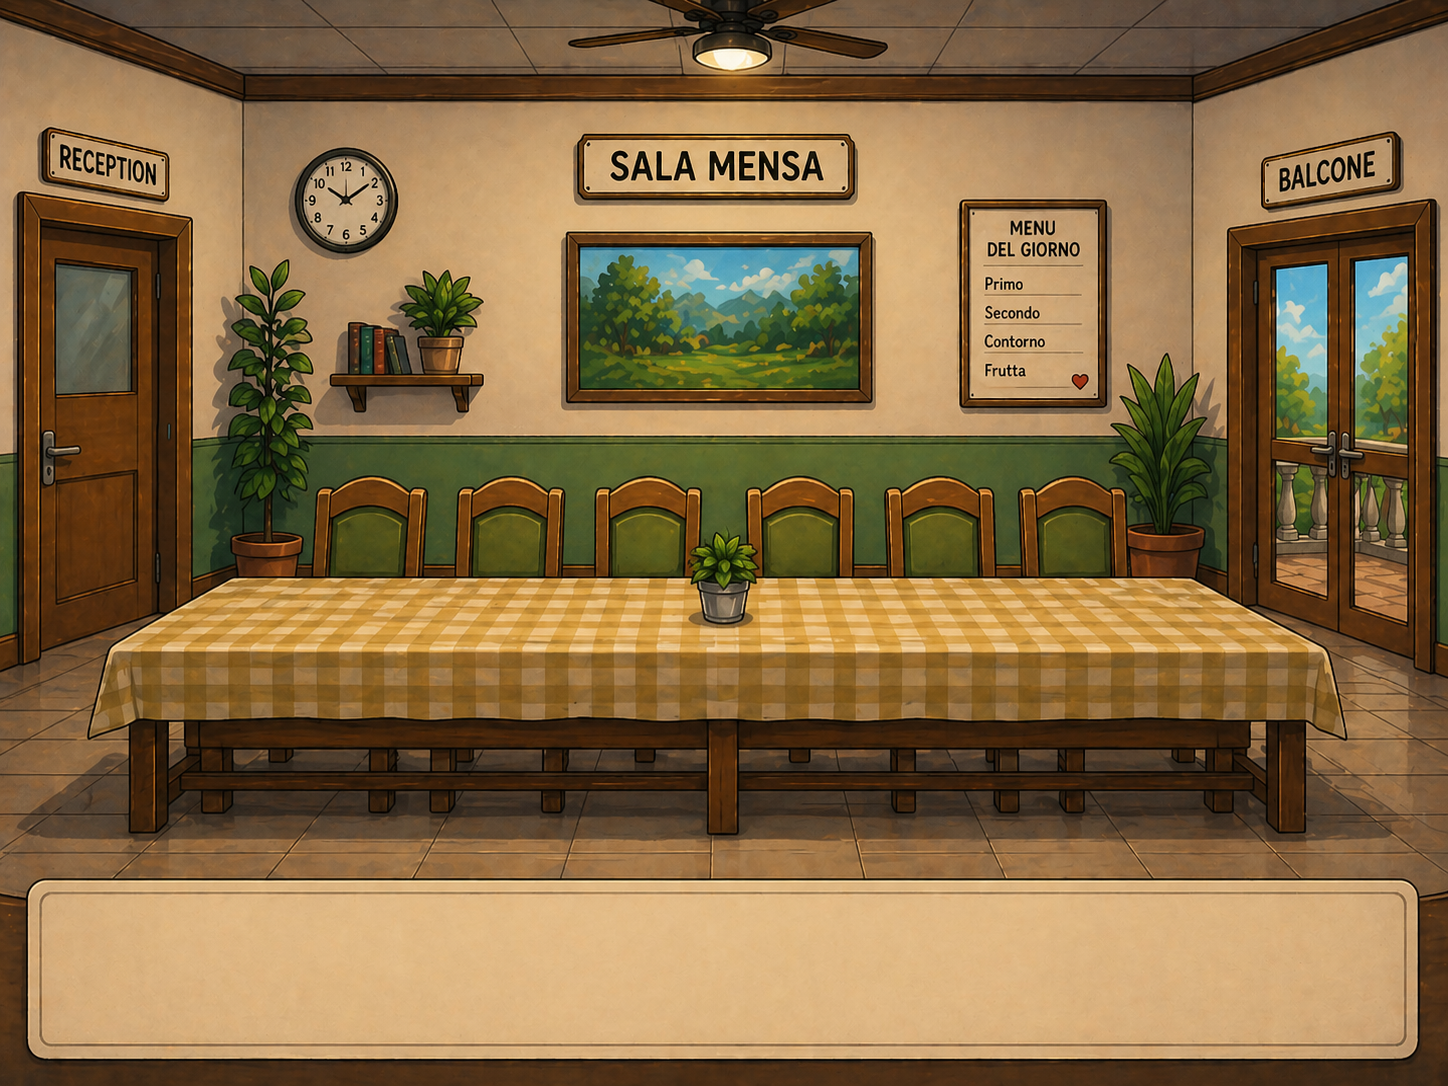
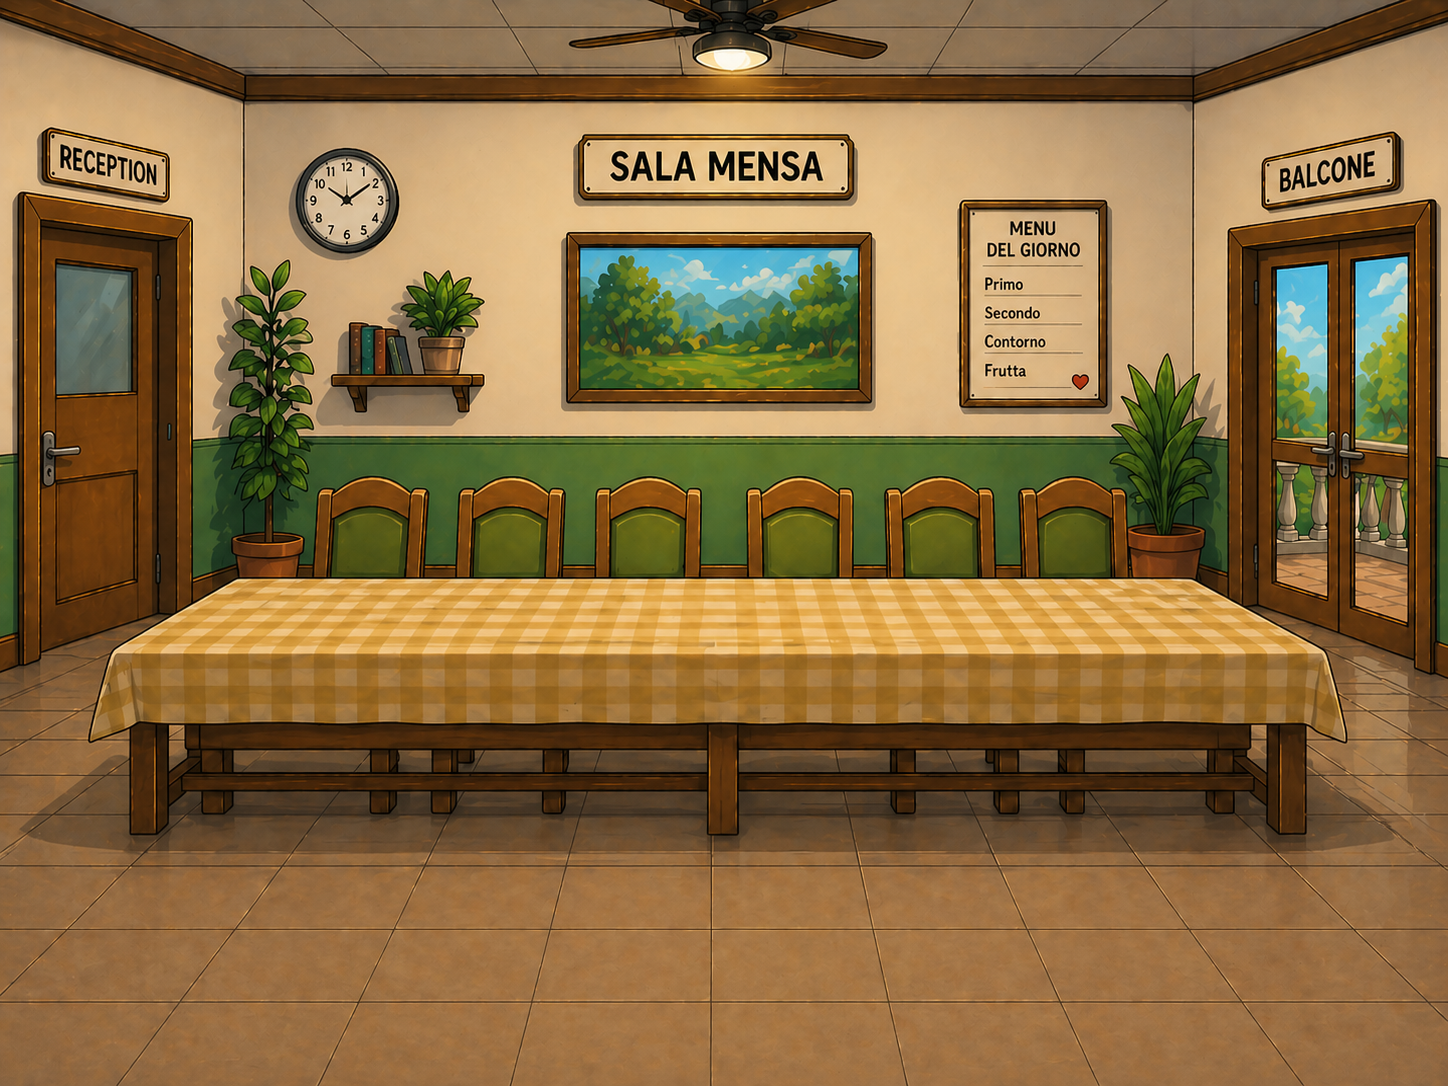
auto-save 30/04/2026  3:10:11,93

diff --git a/script.js b/script.js
@@ -6,7 +6,8 @@ const hotspots = document.querySelectorAll(".hotspot");
 const navButtons = document.querySelectorAll(".scene-nav-button");
 const toggleEditorButton = document.getElementById("toggle-editor");
 const togglePreviewButton = document.getElementById("toggle-preview");
-const placeGianniRandomButton = document.getElementById("place-gianni-random");
+const toggleTimeOfDayButton = document.getElementById("toggle-time-of-day");
+const randomizeDiningSeatsButton = document.getElementById("randomize-dining-seats");
 const copyLayoutButton = document.getElementById("copy-layout");
 const seatAnchorElements = document.querySelectorAll(".seat-anchor");
 const characters = document.querySelectorAll(".character");
@@ -32,6 +33,25 @@ const scenes = {
   "sala-mensa": {
     label: "Sala Mensa",
     message: "Sei nella sala mensa. Nell'aria c'e' ancora odore di caffe'."
+  }
+};
+
+const roomBackgrounds = {
+  reception: {
+    day: "assets/img/reception.png",
+    night: "assets/img/receptionnotte.png"
+  },
+  infermeria: {
+    day: "assets/img/infermieria.png",
+    night: "assets/img/infermierianotte.png"
+  },
+  camere: {
+    day: "assets/img/stanzalettogiorno.png",
+    night: "assets/img/stanzalettonotte.png"
+  },
+  "sala-mensa": {
+    day: "assets/img/sala mensa.png",
+    night: "assets/img/mensanotte.png"
   }
 };
 
@@ -65,7 +85,8 @@ const hotspotLayout = {
 
 const characterLayout = {
   "sala-mensa": {
-    nonnogianni: { left: 48.25, top: 34.24, width: 11.51, height: 18.76 }
+    nonnogianni: { left: 48.25, top: 34.24, width: 11.51, height: 18.76 },
+    lauda: { left: 0, top: 0, width: 11.51, height: 18.76 }
   }
 };
 
@@ -92,7 +113,8 @@ const seatAnchors = {
 };
 
 const characterSeats = {
-  nonnogianni: "posto4"
+  nonnogianni: "posto4",
+  lauda: null
 };
 
 const nonnoGianniLines = [
@@ -102,7 +124,17 @@ const nonnoGianniLines = [
   "prendi l'ascia"
 ];
 
+const laudaLines = [
+  "Non mi piace questo posto.",
+  "Ho fame.",
+  "Dov'e' il dolce?",
+  "Questo non e' il mio bicchiere."
+];
+
+const diningCharacters = ["nonnogianni", "lauda"];
+
 let currentSceneId = "reception";
+let timeOfDay = "day";
 let editorEnabled = false;
 let gamePreviewEnabled = false;
 let interaction = null;
@@ -131,6 +163,23 @@ function getBubbleLayout(sceneId, bubbleId) {
 
 function getSeatAnchorLayout(sceneId, seatId) {
   return seatAnchors[sceneId]?.[seatId];
+}
+
+function updateTimeOfDayButton() {
+  toggleTimeOfDayButton.textContent = timeOfDay === "day" ? "Ora: Giorno" : "Ora: Notte";
+}
+
+function updateRoomBackground(sceneId) {
+  const sceneBackgrounds = roomBackgrounds[sceneId];
+  const backgroundPath = sceneBackgrounds?.[timeOfDay];
+
+  if (!backgroundPath) {
+    game.style.removeProperty("background-image");
+    console.warn(`Nessuna immagine definita per la scena "${sceneId}" in modalita' "${timeOfDay}".`);
+    return;
+  }
+
+  game.style.backgroundImage = `url("${backgroundPath}")`;
 }
 
 function ensureSceneLayout(sceneId) {
@@ -302,6 +351,42 @@ function refreshHotspots() {
   }
 }
 
+function getOccupiedSeats() {
+  const occupiedSeats = [];
+
+  for (const characterId of diningCharacters) {
+    const seatId = characterSeats[characterId];
+
+    if (seatAnchors["sala-mensa"]?.[seatId]) {
+      occupiedSeats.push(seatId);
+    }
+  }
+
+  return occupiedSeats;
+}
+
+function getFreeSeats() {
+  const diningSeats = ["posto1", "posto2", "posto3", "posto4", "posto5", "posto6"];
+  const occupiedSeats = new Set(getOccupiedSeats());
+
+  return diningSeats.filter((seatId) => {
+    return seatAnchors["sala-mensa"]?.[seatId] && !occupiedSeats.has(seatId);
+  });
+}
+
+function hasValidDiningSeat(characterId) {
+  const seatId = characterSeats[characterId];
+  if (!seatAnchors["sala-mensa"]?.[seatId]) {
+    return false;
+  }
+
+  const occupiedByOthers = diningCharacters.some((otherCharacterId) => {
+    return otherCharacterId !== characterId && characterSeats[otherCharacterId] === seatId;
+  });
+
+  return !occupiedByOthers;
+}
+
 function renderScene(sceneId) {
   const scene = scenes[sceneId];
 
@@ -311,7 +396,13 @@ function renderScene(sceneId) {
 
   currentSceneId = sceneId;
   hideBubbles();
+
+  if (sceneId === "sala-mensa" && diningCharacters.some((characterId) => !hasValidDiningSeat(characterId))) {
+    randomizeDiningSeats();
+  }
+
   game.dataset.scene = sceneId;
+  updateRoomBackground(sceneId);
   sceneElement.setAttribute("aria-label", scene.label);
   roomName.textContent = scene.label;
   consoleOutput.textContent = scene.message;
@@ -506,6 +597,12 @@ function showNonnoGianniBubble() {
   consoleOutput.textContent = "Nonno Gianni ti guarda in silenzio.";
 }
 
+function showLaudaBubble() {
+  const randomLine = laudaLines[Math.floor(Math.random() * laudaLines.length)];
+  showSpeechBubbleForCharacter("lauda", randomLine);
+  consoleOutput.textContent = "Lauda sistema il vassoio e borbotta qualcosa.";
+}
+
 function showSpeechBubbleForCharacter(characterId, text, duration = 3000) {
   const seatId = characterSeats[characterId];
 
@@ -540,7 +637,23 @@ function showSpeechBubbleForCharacter(characterId, text, duration = 3000) {
 
 function placeCharacterAtSeat(characterId, seatId) {
   const character = characterLayout["sala-mensa"]?.[characterId];
-  const seat = seatAnchors["sala-mensa"]?.[seatId];
+  let targetSeatId = seatId;
+
+  const isSeatOccupiedByAnotherCharacter = diningCharacters.some((otherCharacterId) => {
+    return otherCharacterId !== characterId && characterSeats[otherCharacterId] === targetSeatId;
+  });
+
+  if (isSeatOccupiedByAnotherCharacter || !seatAnchors["sala-mensa"]?.[targetSeatId]) {
+    const freeSeats = getFreeSeats();
+
+    if (freeSeats.length === 0) {
+      return;
+    }
+
+    targetSeatId = freeSeats[Math.floor(Math.random() * freeSeats.length)];
+  }
+
+  const seat = seatAnchors["sala-mensa"]?.[targetSeatId];
 
   if (!character || !seat) {
     return;
@@ -548,10 +661,37 @@ function placeCharacterAtSeat(characterId, seatId) {
 
   character.left = roundPercent(seat.x - character.width / 2);
   character.top = roundPercent(seat.y - character.height);
-  characterSeats[characterId] = seatId;
+  characterSeats[characterId] = targetSeatId;
 
   refreshCharacters();
   refreshBubbles();
+}
+
+function randomizeDiningSeats() {
+  const availableSeats = ["posto1", "posto2", "posto3", "posto4", "posto5", "posto6"].filter((seatId) => {
+    return Boolean(seatAnchors["sala-mensa"]?.[seatId]);
+  });
+
+  if (availableSeats.length < diningCharacters.length) {
+    return;
+  }
+
+  hideBubbles();
+
+  for (const characterId of diningCharacters) {
+    characterSeats[characterId] = null;
+  }
+
+  for (const characterId of diningCharacters) {
+    const freeSeats = getFreeSeats();
+
+    if (freeSeats.length === 0) {
+      return;
+    }
+
+    const randomSeatId = freeSeats[Math.floor(Math.random() * freeSeats.length)];
+    placeCharacterAtSeat(characterId, randomSeatId);
+  }
 }
 
 function handleHotspotClick(event, hotspot) {
@@ -612,8 +752,17 @@ for (const character of characters) {
       return;
     }
 
-    if (currentSceneId === "sala-mensa" && character.dataset.characterId === "nonnogianni") {
+    if (currentSceneId !== "sala-mensa") {
+      return;
+    }
+
+    if (character.dataset.characterId === "nonnogianni") {
       showNonnoGianniBubble();
+      return;
+    }
+
+    if (character.dataset.characterId === "lauda") {
+      showLaudaBubble();
     }
   });
 
@@ -667,16 +816,15 @@ togglePreviewButton.addEventListener("click", () => {
   updatePreviewState();
 });
 
-placeGianniRandomButton.addEventListener("click", () => {
-  const seatIds = Object.keys(seatAnchors["sala-mensa"] || {});
+toggleTimeOfDayButton.addEventListener("click", () => {
+  timeOfDay = timeOfDay === "day" ? "night" : "day";
+  updateTimeOfDayButton();
+  updateRoomBackground(currentSceneId);
+});
 
-  if (seatIds.length === 0) {
-    return;
-  }
-
-  const randomSeatId = seatIds[Math.floor(Math.random() * seatIds.length)];
-  placeCharacterAtSeat("nonnogianni", randomSeatId);
-  consoleOutput.textContent = `Nonno Gianni spostato su ${randomSeatId}.`;
+randomizeDiningSeatsButton.addEventListener("click", () => {
+  randomizeDiningSeats();
+  consoleOutput.textContent = "Posti della mensa randomizzati.";
 });
 
 copyLayoutButton.addEventListener("click", () => {
@@ -706,3 +854,4 @@ for (const seatAnchor of seatAnchorElements) {
 renderScene("reception");
 updateEditorState();
 updatePreviewState();
+updateTimeOfDayButton();

diff --git a/index.html b/index.html
@@ -141,6 +141,13 @@
           <span class="character-resize" aria-hidden="true"></span>
         </div>
 
+        <div class="character character-lauda" id="character-lauda" data-scene="sala-mensa" data-character-id="lauda" aria-hidden="true">
+          <span class="character-label">Lauda</span>
+          <span class="character-meta"></span>
+          <img src="assets/characters/lauda.png" alt="Lauda">
+          <span class="character-resize" aria-hidden="true"></span>
+        </div>
+
         <div class="speech-bubble" id="bubble-posto1" data-scene="sala-mensa" data-bubble-id="posto1" aria-hidden="true">
           <span class="speech-bubble-label">Fumetto Posto 1</span>
           <span class="speech-bubble-meta"></span>
@@ -208,7 +215,8 @@
       <div class="dev-toolbar">
         <button class="dev-button" id="toggle-editor" type="button" aria-pressed="false">Editor Hotspot</button>
         <button class="dev-button" id="toggle-preview" type="button" aria-pressed="false">Vista Gioco</button>
-        <button class="dev-button" id="place-gianni-random" type="button">Piazza Gianni Random</button>
+        <button class="dev-button" id="toggle-time-of-day" type="button">Ora: Giorno</button>
+        <button class="dev-button" id="randomize-dining-seats" type="button">Randomizza Mensa</button>
         <button class="dev-button" id="copy-layout" type="button">Copia layout</button>
       </div>
     </div>